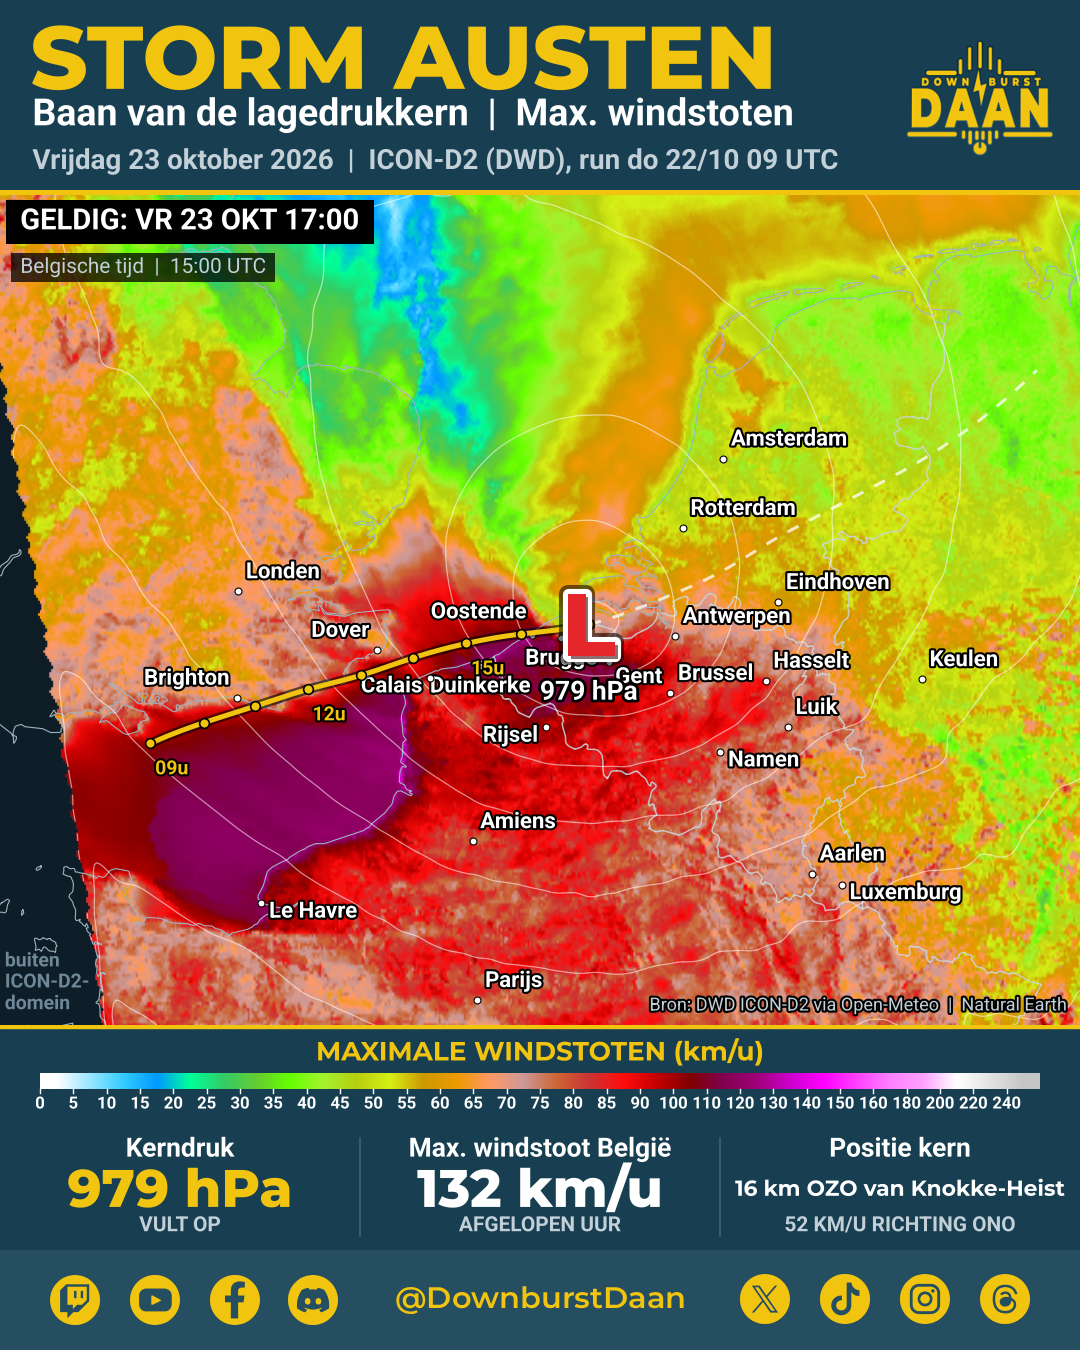
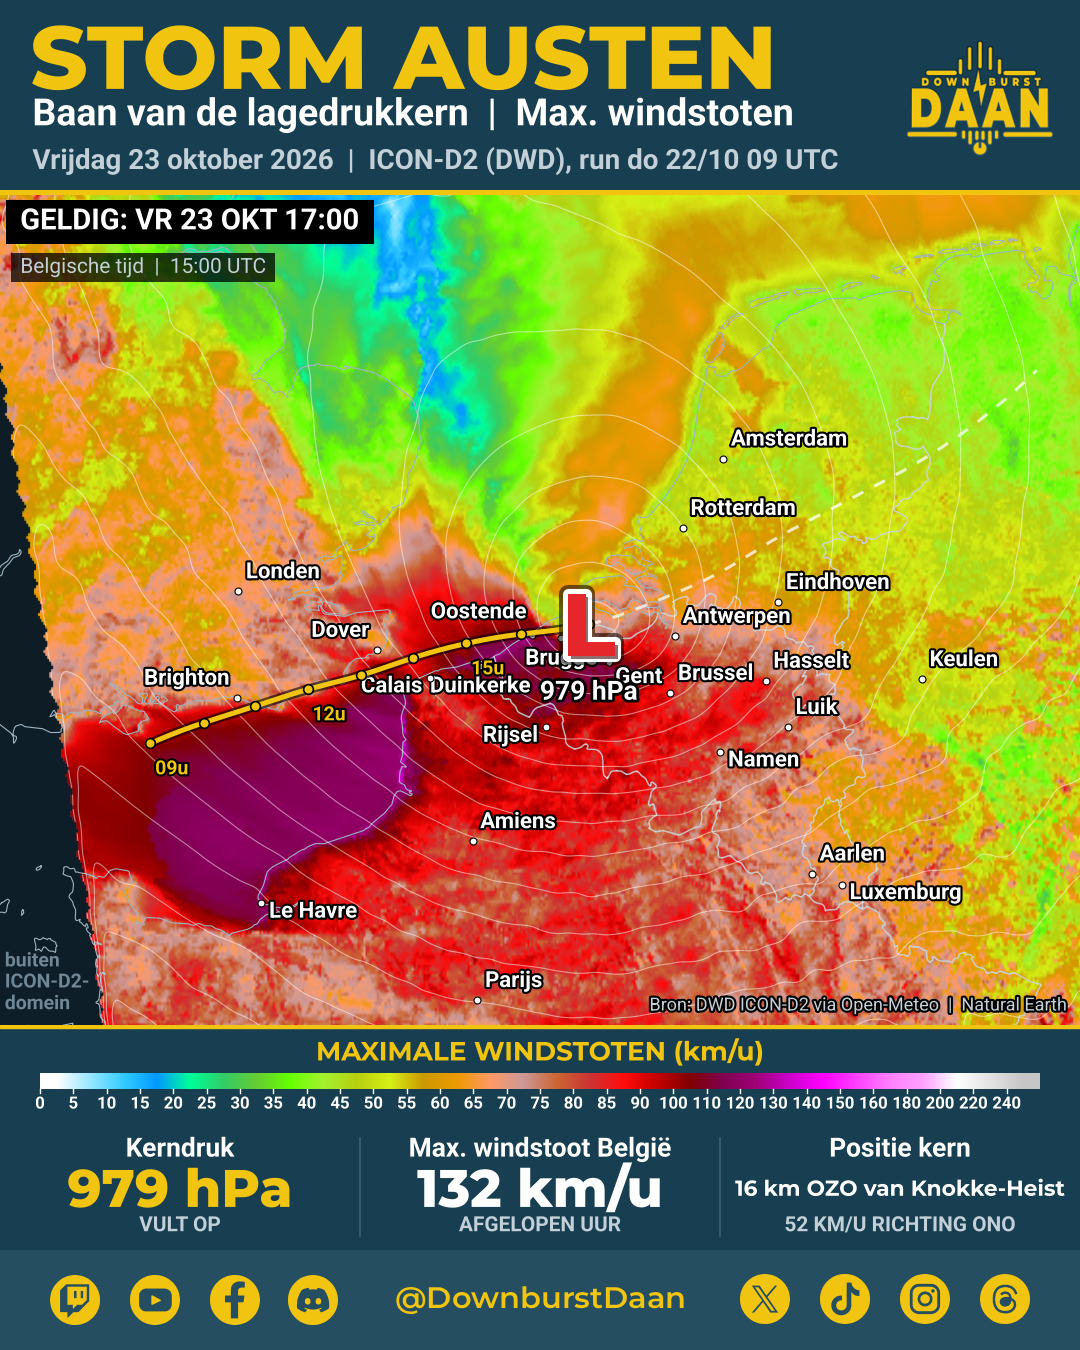
Isobaren om de 2 hPa
Claude-Session: https://claude.ai/code/session_014jJBsaEDgG1zdqphR26BCF

diff --git a/scripts/render_animation.py b/scripts/render_animation.py
@@ -359,10 +359,10 @@ def draw(h, path):
     for seg in L["borders"]:
         m.plot(seg[:, 0], seg[:, 1], color="#c9d6de", lw=1.1, zorder=4, alpha=0.85)
 
-    # Isobaren (elke 4 hPa)
+    # Isobaren (elke 2 hPa)
     Pm = np.ma.masked_array(P, D["mask"])
-    lv = np.arange(960, 1040, 4)
-    m.contour(lon, lat, Pm, levels=lv, colors=WHITE, linewidths=0.9, alpha=0.55, zorder=5)
+    lv = np.arange(960, 1040, 2)
+    m.contour(lon, lat, Pm, levels=lv, colors=WHITE, linewidths=0.8, alpha=0.5, zorder=5)
 
     for name, x, yy, dx, dy, ha in CITIES:
         m.plot(x, yy, "o", ms=5, color=WHITE, mec="#000000", mew=0.8, zorder=6)
